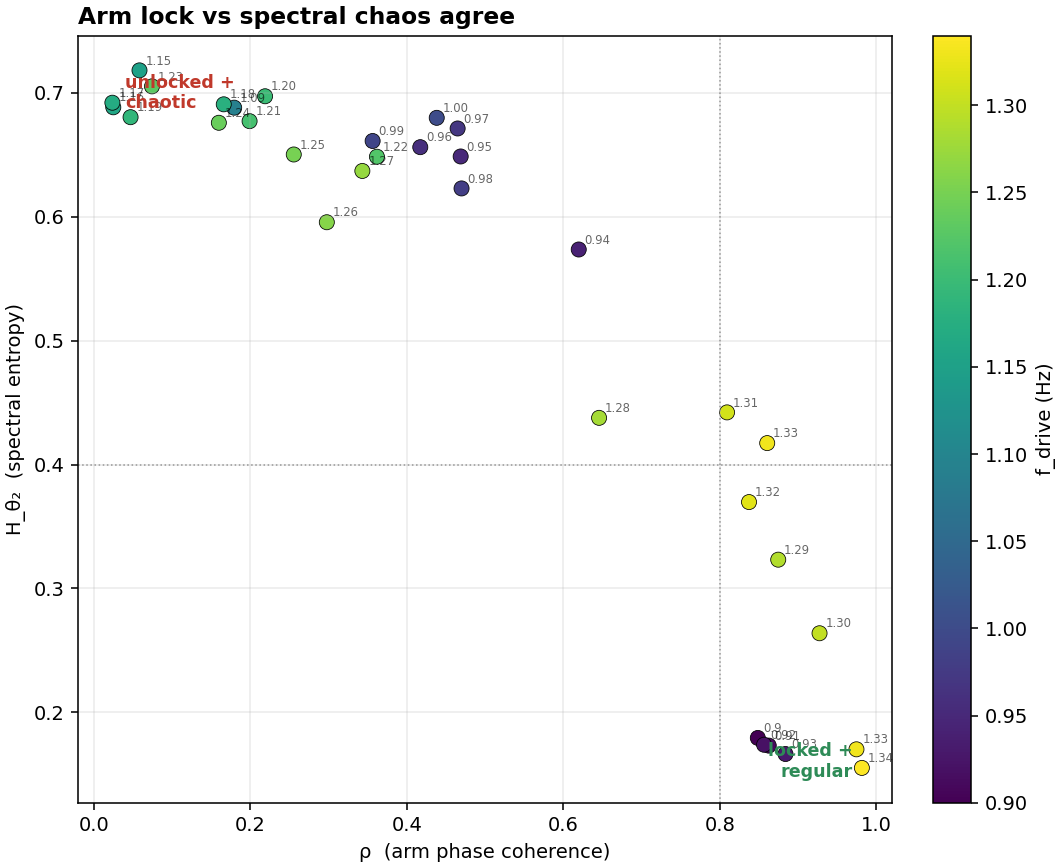
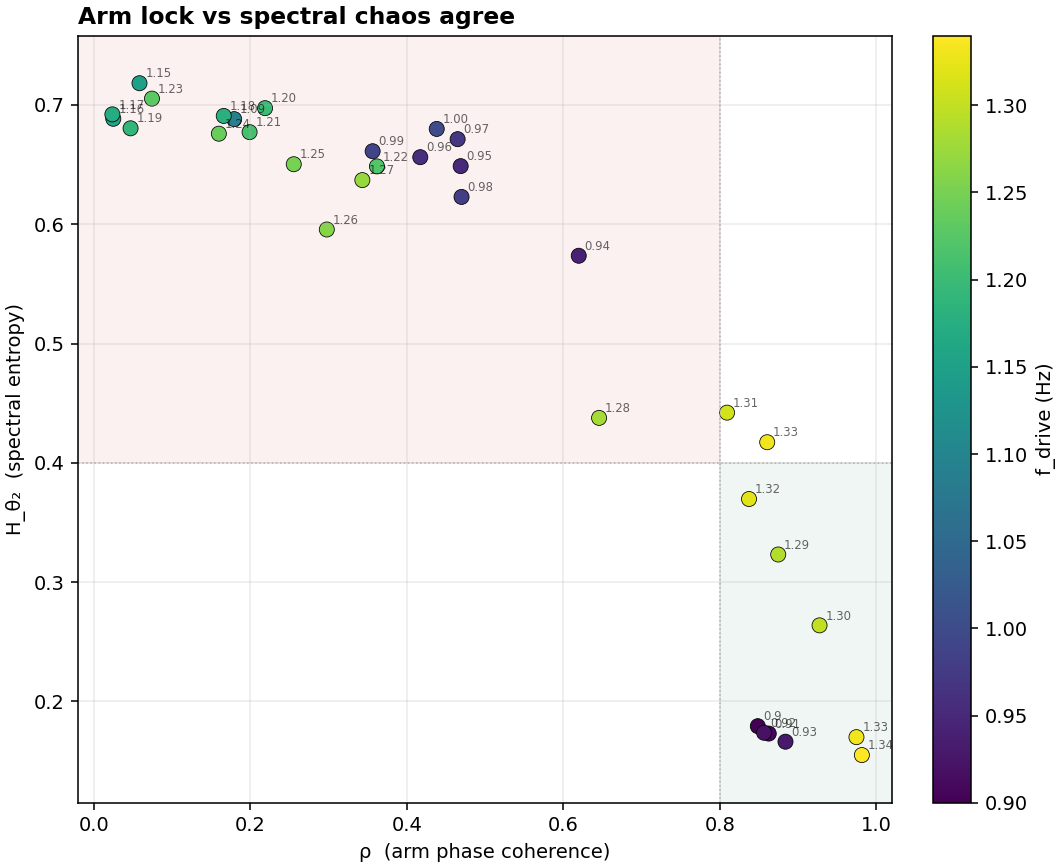
phase-locking scatter: replace corner text with gentle region tints
Drop the "locked+regular"/"unlocked+chaotic" text labels (they overlapped the
points); shade the two diagnostic quadrants instead — soft green bottom-right
(locked+regular), soft red top-left (unlocked+chaotic), alpha 0.07. Transition
quadrants left white.

diff --git a/scripts/analysis/phase_locking.py b/scripts/analysis/phase_locking.py
@@ -355,15 +355,19 @@ def run_sweep(voltage, transient_s):
         if np.isfinite(x) and np.isfinite(y):
             ax.annotate(st.split("_")[1].replace("Hz", ""), (x, y),
                         fontsize=6, alpha=0.6, xytext=(3, 3), textcoords="offset points")
-    ax.axvline(TH.PLOCK_RHO_LOCK, color="0.6", ls=":", lw=0.8)
-    ax.axhline(0.4, color="0.6", ls=":", lw=0.8)
-    ax.text(0.97, 0.16, "locked +\nregular", ha="right", va="center",
-            fontsize=9, color="#2e8b57", fontweight="bold")
-    ax.text(0.04, 0.70, "unlocked +\nchaotic", ha="left", va="center",
-            fontsize=9, color="#c0392b", fontweight="bold")
+    # gentle region tints instead of text: locked+regular (green, bottom-right),
+    # unlocked+chaotic (red, top-left)
+    xlo, xhi = -0.02, 1.02
+    ylo = float(np.nanmin(H)) - 0.04
+    yhi = float(np.nanmax(H)) + 0.04
+    RL, HT = TH.PLOCK_RHO_LOCK, 0.4
+    ax.fill_between([RL, xhi], ylo, HT, color="#2e8b57", alpha=0.07, zorder=0)
+    ax.fill_between([xlo, RL], HT, yhi, color="#c0392b", alpha=0.07, zorder=0)
+    ax.axvline(RL, color="0.7", ls=":", lw=0.8, zorder=1)
+    ax.axhline(HT, color="0.7", ls=":", lw=0.8, zorder=1)
     ax.set_xlabel("ρ  (arm phase coherence)")
     ax.set_ylabel("H_θ₂  (spectral entropy)")
-    ax.set_xlim(-0.02, 1.02); ax.grid(alpha=0.25)
+    ax.set_xlim(xlo, xhi); ax.set_ylim(ylo, yhi); ax.grid(alpha=0.25)
     ax.set_title("Arm lock vs spectral chaos agree", loc="left", fontweight="bold")
     fig.colorbar(sc, ax=ax, label="f_drive (Hz)")
 
